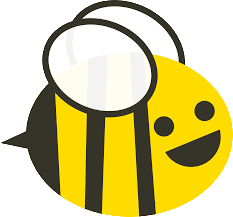
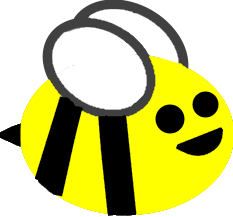
Fixed collision for bees(?), and added my own images.

diff --git a/src/pages/ball-vs-wild/ball-vs-wild.ts b/src/pages/ball-vs-wild/ball-vs-wild.ts
@@ -350,9 +350,9 @@ export class BallVsWildPage {
     let heroShape = new Circle(this.canvasContext);
     this.hero = new ShapeUnit(heroShape, this.heroTopLeftX, this.heroTopLeftY, size, heroColor);
 
-    this.enemyGenerators.push(new EnemyProducer(10, Math.max(20, this.canvasContext.canvas.width * 0.12), 100, 5000, this.hero, BallVsWildPage.MEDIUM_BEE["imgSrc"], this.canvasContext));
-    this.enemyGenerators.push(new EnemyProducer(30, Math.max(40, this.canvasContext.canvas.width * 0.2), 70, 7500, this.hero, BallVsWildPage.LARGE_BEE["imgSrc"], this.canvasContext));
-    this.enemyGenerators.push(new EnemyProducer(25, Math.max(10, this.canvasContext.canvas.width * 0.07), 175, 8000, this.hero, BallVsWildPage.SMALL_BEE["imgSrc"], this.canvasContext));
+    this.enemyGenerators.push(new EnemyProducer(10, Math.max(20, this.canvasContext.canvas.width * 0.15), 100, 5000, this.hero, BallVsWildPage.MEDIUM_BEE["imgSrc"], this.canvasContext));
+    this.enemyGenerators.push(new EnemyProducer(30, Math.max(40, this.canvasContext.canvas.width * 0.22), 70, 7500, this.hero, BallVsWildPage.LARGE_BEE["imgSrc"], this.canvasContext));
+    this.enemyGenerators.push(new EnemyProducer(25, Math.max(10, this.canvasContext.canvas.width * 0.09), 175, 8000, this.hero, BallVsWildPage.SMALL_BEE["imgSrc"], this.canvasContext));
     this.itemGenerators.push(new ItemProducer("img/item-health.png", 30, 250, 10000, this.canvasContext));
   }
 }
